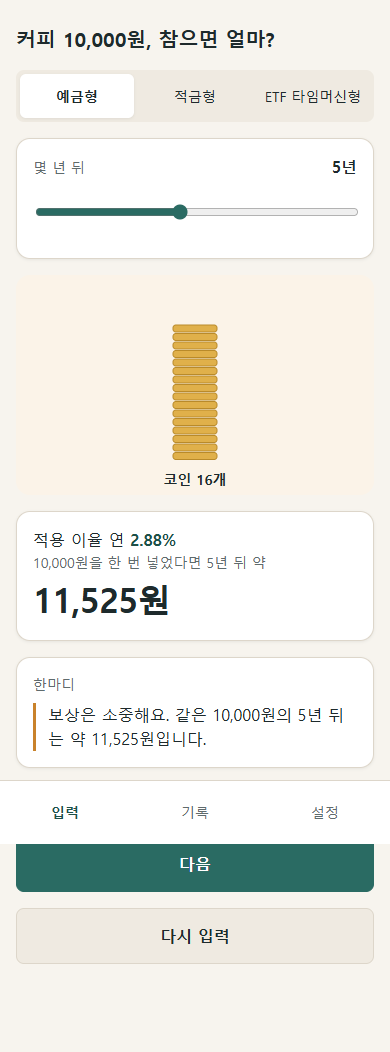
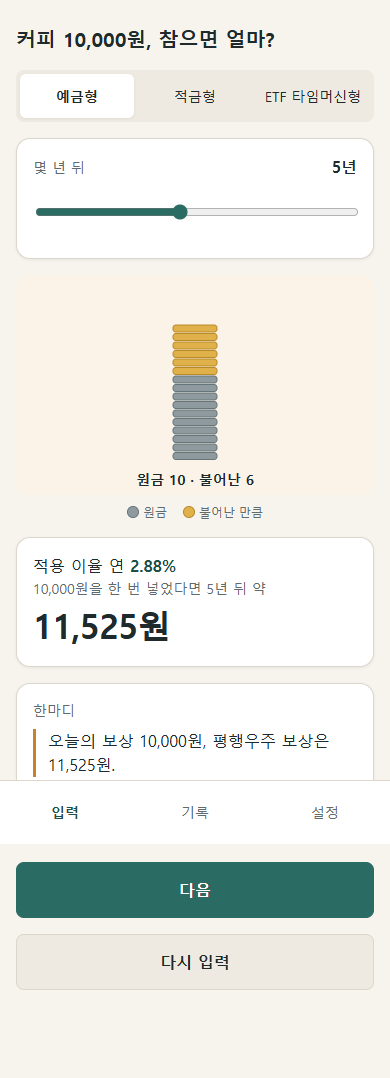
docs: README 정리와 스크린샷 갱신
- 소개, 기능, 설계 근거, 아키텍처, 데이터 정책, 품질 보증, 실행 방법, 가정 목록, 면책 순으로 재구성
- 테스트 개수는 실행 결과 기준(단위 146개, E2E 9개)
- 코인 색 구분과 이용 안내 화면 스크린샷 반영

diff --git a/README.md b/README.md
@@ -1,24 +1,185 @@
 # 참으면 얼마?
 
-사려는 금액을 입력하면 가정 이율과 과거 수익률로 환산해 3D 연출과 함께 보여 주는 충동 소비 억제 웹앱.
+사려던 금액을 가정 이율과 과거 지수 상승률로 환산해 3D 저금통과 함께 보여 주는 충동 소비 억제 웹앱이다. 서버 없이 정적 파일만으로 동작한다.
 
 > 가정 시뮬레이션이며 수익을 보장하지 않습니다. 과거 성과는 미래를 보장하지 않습니다.
 
-## 실행 방법
+| 입력 | 결과(3D) | 결과(2D 폴백) | 기록 | 이용 안내 |
+| --- | --- | --- | --- | --- |
+| <img src="docs/screenshots/input.png" width="160" alt="입력 화면"> | <img src="docs/screenshots/result-3d.png" width="160" alt="결과 화면 3D 저금통"> | <img src="docs/screenshots/result-2d.png" width="160" alt="결과 화면 2D 폴백"> | <img src="docs/screenshots/log.png" width="160" alt="기록 화면"> | <img src="docs/screenshots/guide.png" width="160" alt="이용 안내 화면"> |
 
-개발 후 작성.
+스크린샷은 E2E 테스트가 390×844 뷰포트에서 저장한 화면이다.
+
+## 주요 기능
+
+- **입력**: 카테고리(배고픔, 스트레스, 보상, 충동)와 품목 칩을 고르거나 일반 명칭을 직접 입력하고 금액을 넣는다. 상호명이나 상품명으로 의심되는 입력은 거부한다.
+- **환산** (3가지 방식)
+  - 예금형: 일시 예치, 연 복리
+  - 적금형: 매달 같은 금액을 넣는 월 복리
+  - ETF 타임머신형: N년 전 초에 넣었다면 기준 연도 말에 얼마인지 계산한다. 기술주 ETF형과 대형주 ETF형의 과거 연간 상승률을 쓴다.
+- **3D 저금통**: 원금 대비 배율만큼 코인을 쌓는다. 원금 코인과 불어난 코인은 색으로 구분한다. WebGL 미지원, 동작 줄이기 설정, 저사양 3D 끄기 설정에서는 같은 정보를 2D 그래픽으로 보여 준다.
+- **한마디**: 미리 작성해 둔 문구 사전에서 카테고리, 금액 구간, 톤에 맞는 문구를 하나 고른다.
+- **선택과 기록**: 참았어요 또는 샀어요/먹었어요를 기록한다. 누적 참은 금액, 연속 일수, 최근 7일 그래프를 보여 준다.
+- **설정**: 가정 이율을 데이터 범위 안에서 조정할 수 있다. 저사양 3D 끄기, 데이터 초기화, 이용 안내 화면을 제공한다.
 
 ## 설계 근거
 
-개발 후 작성. 아래 항목을 포함한다.
+### 런타임 LLM을 쓰지 않은 이유
 
-- 런타임 LLM을 쓰지 않은 이유
-- 문구를 사전 생성한 이유
-- 계산과 문구를 분리한 이유
+- 서버가 없는 정적 앱이라 API 키를 안전하게 둘 곳이 없다. 호출 비용과 응답 지연도 생긴다.
+- 금융 수치 옆에 나오는 문장은 권유 표현, 상품명, 단정적 예언이 하나라도 섞이면 안 된다. 생성형 출력은 매번 달라서 이를 배포 전에 전수 검사할 수 없다.
+- 사용자 입력을 외부로 보내지 않는다는 원칙(원문 미전송)과도 맞지 않는다.
+
+### 문구를 사전 생성한 이유
+
+- 문구 사전은 `src/data/messages.json` 288개, `src/data/messagesEtf.json` 48개다. 모두 빌드 전에 확정된 데이터다.
+- 확정된 문구라서 단위 테스트로 전수 검사할 수 있다. 검사 항목은 자리표시자, 길이(60자), 숫자, 이모지, 명령과 권유 어미, 과장 표현, 금칙어, 시제, 조사 일치다.
+- 문구가 화면에 그대로 나오므로 리뷰어가 파일 하나만 읽고 전체 톤을 확인할 수 있다.
+
+### 계산과 문구를 분리한 이유
+
+- 숫자는 `src/core/calc.ts`의 순수 함수에서만 나온다. 문구는 `{amount}`, `{future}`, `{years}`, `{startYear}` 같은 자리표시자만 가진다.
+- 계산은 입력과 기대값으로 테스트하고, 문구는 형식 규칙으로 따로 테스트한다. 문구를 고쳐도 계산 결과는 바뀌지 않는다.
+- 조사(을/를, 이/가 등)는 `src/core/template.ts`가 값의 받침에 맞춰 바꾼다.
+
+### 상호명과 상품명을 전면 금지한 이유
+
+- 실제 상품이나 브랜드 이름이 수익률 숫자 옆에 나오면 특정 상품을 권하는 것처럼 읽힐 수 있다. 그래서 예금과 적금은 이율만, 주식은 ETF 유형(기술주 ETF형, 대형주 ETF형)의 상승률만 보여 준다.
+- 사용자가 입력한 상호명이 화면이나 저장소에 남는 것도 같은 문제라서 입력 단계에서 막는다.
+
+### 입력 필터 방식 (`src/core/inputFilter.ts`)
+
+- **원문 미저장**: 판정 결과에는 사전 품목의 id와 label만 담는다. 입력 칸은 확인을 누르면 판정 결과와 관계없이 비운다. 원문은 화면 표시, localStorage, 외부 전송 어디에도 쓰지 않는다(E2E로 확인).
+- **사전 매칭**: 일반 품목 사전(`src/data/items.json`, 76개)과 대조한다. 품목명 그대로이거나 수량(2잔 등)과 일반 수식어(아이스, 양념 등)만 붙은 입력은 허용한다. 품목명에 알 수 없는 글자가 붙으면 상호로 의심해 거부한다. 품목명이 없으면 기타 소비로 처리한다.
+- **해시 목록**: 금지 상호명 원문을 소스에 두지 않으려고 `scripts/banned-terms.txt`(저장소 사용자가 관리)를 32비트 해시로 바꾼 `src/data/blockedHashes.json`과 대조한다. 목록을 고치면 `npm run build:blocklist`를 실행한다. 두 파일의 동기화는 테스트로 확인한다.
+- 영문이 들어간 입력은 상호명일 수 있어 거부하고, 한글 일반 명칭으로 입력하라고 안내한다.
+
+## 아키텍처
+
+```
+src/
+  core/        순수 로직
+    calc.ts          예금형, 적금형, ETF 타임머신 계산과 시작 연도 범위
+    coinCount.ts     배율 → 코인 수, 원금 코인과 불어난 코인 분리
+    inputFilter.ts   직접 입력 판정(사전 매칭, 해시 대조)
+    messagePick.ts   문구 선택
+    template.ts      자리표시자 치환, 조사 보정
+    copy.ts          고정 문구, 입력 안내, 이용 안내 문구
+    format.ts, stats.ts, fallback.ts, textNorm.ts
+  data/        정적 JSON (rates, returns, items, messages, messagesEtf, tarot, blockedHashes)
+  scenes/      CoinStage(3D/2D 선택), PiggyBank(three.js, 지연 로드), CoinFallback2d(SVG)
+  screens/     Input, Result, Choice, Log, Settings, Guide
+  store/       localStorage 래퍼(허용 필드만 읽고 씀)
+  styles/      tokens.css(디자인 토큰), app.css
+scripts/       fetch-data.ts, scan-banned.ts, build-blocklist.ts, banned-terms.txt, allow-tokens.txt
+tests/         unit(Vitest), e2e(Playwright)
+docs/          PLAN, PROMPT_DEV, PROMPT_MESSAGES, SETUP, DATA_SOURCES, SUBMISSION, screenshots
+```
+
+데이터 흐름:
+
+```
+입력 화면
+  ├─ 직접 입력 → inputFilter → { itemId, label, category }   (원문은 여기서 버림)
+  └─ Draft { itemId, label, category, amount }
+결과 화면
+  ├─ calc: futureValueCompound / installmentFutureValue / timeMachine  ← rates.json, returns.json, 설정 이율
+  ├─ coinSplit → CoinStage → PiggyBank(3D) 또는 CoinFallback2d(2D)
+  └─ messagePick → fillTemplate  ← messages.json, messagesEtf.json
+선택 화면 → store.addRecord { date, itemId, amount, choice } → localStorage
+기록 화면 ← store.getRecords → stats(누적, 연속 일수, 7일 그래프)
+```
+
+화면 전환은 라우터 없이 `App.tsx`의 상태로 한다. 3D 모듈은 `React.lazy`로 분리해 결과 화면에서만 받는다.
+
+## 데이터 정책
+
+- **수집**: `npm run fetch:data`(`scripts/fetch-data.ts`)가 공개 통계를 받아 `src/data/rates.json`과 `src/data/returns.json`을 만든다. 값을 손으로 쓰지 않는다. 출처 URL, 이용 조건, 계산 방식은 `docs/DATA_SOURCES.md`에만 적는다. 이 파일은 앱 번들과 금칙어 스캔 대상에서 제외한다.
+- **기준일**
+  - 이율: 2026-09. 최근 12개월 월별 값의 중앙값을 기본값으로 쓰고, 값의 범위를 슬라이더 한계로 쓴다.
+  - 상승률: 2025-12-31. 2000~2025년 연간 상승률이며, 진행 중인 해는 제외한다.
+  - 수집일: 2026-11-23
+- **한계**
+  - ETF형 상승률은 유형별 대표 지수의 USD 가격 수익률이다. 실제 ETF 상품의 수익률이 아니다. 배당, 보수, 환율은 반영하지 않는다.
+  - 예금형과 적금형은 상품별 분포가 아니라 공개 평균 수신금리로 근사했다. 세금은 반영하지 않는다.
+  - 교차 검증 범위: 상승률은 두 번째 공개 자료와 52개 연도를 대조했고 차이는 모두 0%p였다(소수 둘째 자리 기준). 다만 기술주 ETF형의 대조 자료는 1차 출처를 인용하고 있어 완전한 독립 검증은 아니다. 이율은 같은 통계의 분기값과 월평균을 비교한 것이라 독립 출처 검증이 아니다.
+  - 출처 없는 값은 `isSample: true`로 표시하고 화면에 샘플 데이터 배지를 단다. 현재 데이터에 샘플 값은 없다.
+
+## 품질 보증
+
+### 단위 테스트 (Vitest): 13개 파일, 146개
+
+| 파일 | 개수 | 내용 |
+| --- | --- | --- |
+| calc.test.ts | 29 | 복리, 적금, 타임머신 계산, 경계값, 범위 오류, 시작 연도 범위 |
+| inputFilter.test.ts | 21 | 상호명 거부, 일반 명칭 허용, 영문 거부, 결과에 원문 없음, 품목 사전 무결성, 해시 목록 동기화 |
+| data.test.ts | 19 | rates, returns 스키마, 연도 연속성, isSample 일관성, 티커와 지수명 없음 |
+| messages.test.ts | 15 | 문구 규칙(자리표시자, 길이, 권유 어미, 과장, 금칙어, 시제) |
+| coinCount.test.ts | 13 | 코인 수 경계, 단조성, 원금 코인과 불어난 코인 분리 |
+| stats.test.ts | 9 | 누적 금액, 연속 일수, 7일 집계 |
+| fallback.test.ts | 7 | 2D 폴백 조건, WebGL과 동작 줄이기 감지 |
+| messages.render.test.ts | 7 | 모든 품목 대입 시 조사 일치, 자리표시자 잔존 없음 |
+| storage.test.ts | 7 | 허용 필드만 저장, 이율 보정, 손상 데이터 복구, 초기화 |
+| format.test.ts | 6 | 원 단위 반올림, 콤마, 원과 퍼센트 표기 |
+| messagePick.test.ts | 5 | 카테고리, 금액 구간, 톤별 문구 선택 |
+| copy.test.ts | 4 | 이용 안내 필수 내용, 권유 어미, 금칙어 |
+| template.test.ts | 4 | 자리표시자 치환, 조사 보정 |
+
+### E2E (Playwright, Chromium): 2개 파일, 9개
+
+- `flow.spec.ts` (3개): 상호명 거부, 원문 미표시와 미저장, 환산, 참았어요 기록, 기타 소비 처리, 이용 안내 이동
+- `scene.spec.ts` (6개): 3D 캔버스와 대체 텍스트, 2D 폴백(WebGL 미지원, 동작 줄이기, 설정 토글), 2D 코인 색 구분, ETF 한마디 시제, ETF 시작 연도 범위
+- 헤드리스에서는 소프트웨어 WebGL(swiftshader)로 3D를 렌더링한다.
+
+### 금칙어 스캔 (`npm run scan:banned`)
+
+- 대상: `src/` 전체(코드, JSON, CSS)
+- 권유 표현(사세요, 넣으세요, 투자하세요, 매수, 매도 등)을 검사한다.
+- 영문 대문자 2~5자 토큰은 티커 의심으로 본다. 허용 목록은 `scripts/allow-tokens.txt`다.
+- `scripts/banned-terms.txt`의 상품명을 검사한다.
+- 위반이 하나라도 있으면 종료 코드 1이다. 같은 검사 함수를 문구 단위 테스트에서도 쓴다.
+
+### CI
+
+- `.github/workflows/ci.yml`: push(main)와 PR마다 실행한다. 순서는 `npm ci` → 금칙어 스캔 → 단위 테스트 → 빌드 → Playwright 브라우저 설치 → E2E다.
+- `.github/workflows/deploy.yml`: main 푸시 시 빌드해 GitHub Pages에 배포한다. CI와 별개 워크플로다.
+
+## 실행 방법
+
+Node.js 20 이상이 필요하다.
+
+```bash
+npm ci
+npm run dev        # 개발 서버
+npm run build      # 프로덕션 빌드(dist/)
+npm run preview    # 빌드 결과 미리 보기
+```
+
+GitHub Pages처럼 하위 경로에 배포할 때는 `BASE_PATH`를 지정한다.
+
+```bash
+BASE_PATH=/chameumyeon-eolma/ npm run build
+```
+
+### 테스트 실행
+
+```bash
+npm test                          # 단위 테스트
+npm run scan:banned               # 금칙어 스캔
+npx playwright install chromium   # 최초 1회
+npm run test:e2e                  # E2E(빌드 후 preview 서버로 실행)
+```
+
+스크린샷 갱신:
+
+```bash
+SCREENSHOTS=1 npm run test:e2e            # bash
+$env:SCREENSHOTS='1'; npm run test:e2e    # PowerShell
+```
 
 ## 가정 목록
 
-개발 중 Claude Code가 기록한다.
+개발 중 내린 가정을 Phase별로 기록한다. "(보정)"은 Phase 3 이후 고친 항목이다.
 
 ### Phase 0 데이터
 
@@ -109,6 +270,8 @@
 - 저장소 설정의 Pages 소스를 GitHub Actions로 지정해야 배포된다.
 - Windows Git Bash에서 로컬로 확인할 때는 경로 자동 변환을 꺼야 한다: `MSYS2_ENV_CONV_EXCL=BASE_PATH BASE_PATH=/chameumyeon-eolma/ npm run build`
 
-## 테스트
+## 면책
 
-개발 후 작성.
+가정 시뮬레이션이며 수익을 보장하지 않습니다. 과거 성과는 미래를 보장하지 않습니다.
+
+ETF형 결과는 지수 가격 기준이며 배당, 보수, 환율은 반영하지 않았습니다. 이 앱은 금융 상품을 소개하거나 권유하지 않습니다.
